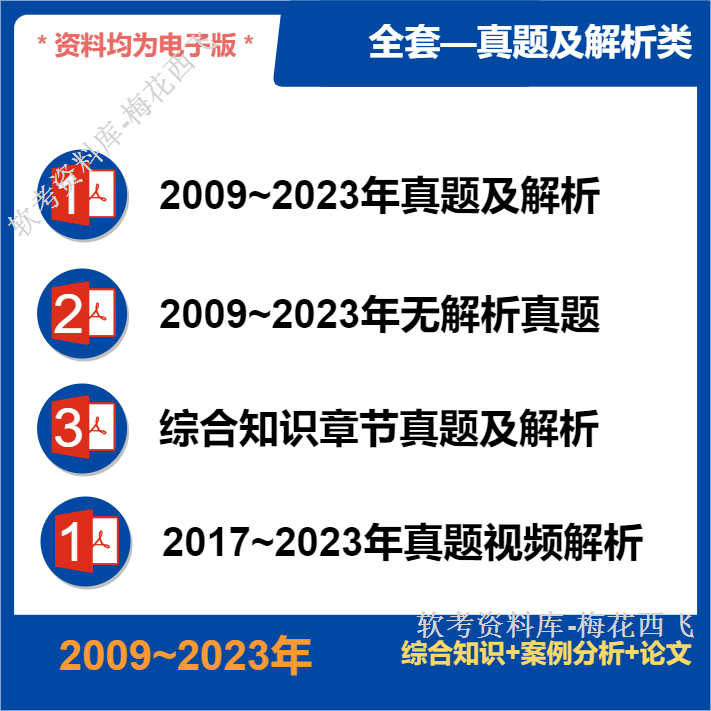
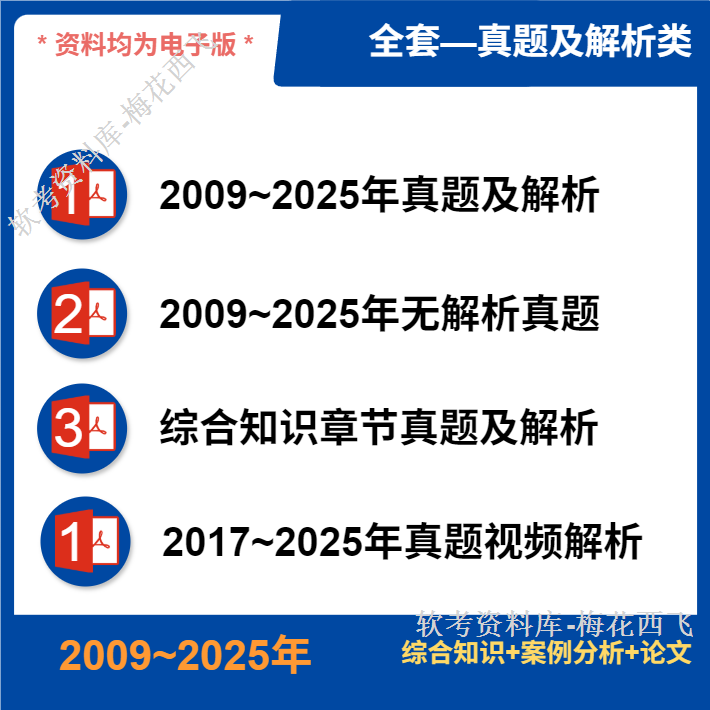
更新25年5月真题及解析 # https://fchxxn.com/exam

diff --git a/README.md b/README.md
@@ -161,12 +161,12 @@
 - **资料简介**
 <div align="center">
   <kbd>
-   <img src="https://fchxxn.com/img/git/%E9%A1%B9%E7%9B%AE%E5%9B%BE%E7%89%87/首页.png?version=2025_6&time=10" title="点击查看大图：首页" width=260 />
-   <img src="https://fchxxn.com/img/git/%E9%A1%B9%E7%9B%AE%E5%9B%BE%E7%89%87/视频.png?version=2024_6&time=10" title="点击查看大图：视频" width=260 />
-   <img src="https://fchxxn.com/img/git/%E9%A1%B9%E7%9B%AE%E5%9B%BE%E7%89%87/真题.png?version=2024_6&time=10" title="点击查看大图：真题" width=260 />
-   <img src="https://fchxxn.com/img/git/%E9%A1%B9%E7%9B%AE%E5%9B%BE%E7%89%87/论文.jpg?version=2024_6&time=1" title="点击查看大图：论文" width=260 />
-   <img src="https://fchxxn.com/img/git/%E9%A1%B9%E7%9B%AE%E5%9B%BE%E7%89%87/教材.jpg?version=2024_6&ui=2" title="点击查看大图：教材" width=260 />
-   <img src="https://fchxxn.com/img/git/%E9%A1%B9%E7%9B%AE%E5%9B%BE%E7%89%87/全套资料.jpg?version=2025_6&ui=2" title="点击查看大图：全套资料" width=260 /> 
+   <img src="https://fchxxn.com/img/git/%E9%A1%B9%E7%9B%AE%E5%9B%BE%E7%89%87/首页.png?version=2025_7&time=10" title="点击查看大图：首页" width=260 />
+   <img src="https://fchxxn.com/img/git/%E9%A1%B9%E7%9B%AE%E5%9B%BE%E7%89%87/视频.png?version=2025_6&time=10" title="点击查看大图：视频" width=260 />
+   <img src="https://fchxxn.com/img/git/%E9%A1%B9%E7%9B%AE%E5%9B%BE%E7%89%87/真题.png?version=2025_6&time=10" title="点击查看大图：真题" width=260 />
+   <img src="https://fchxxn.com/img/git/%E9%A1%B9%E7%9B%AE%E5%9B%BE%E7%89%87/论文.jpg?version=2025_6&time=1" title="点击查看大图：论文" width=260 />
+   <img src="https://fchxxn.com/img/git/%E9%A1%B9%E7%9B%AE%E5%9B%BE%E7%89%87/教材.jpg?version=2025_6&ui=2" title="点击查看大图：教材" width=260 />
+   <img src="https://fchxxn.com/img/git/%E9%A1%B9%E7%9B%AE%E5%9B%BE%E7%89%87/全套资料.jpg?version=2025_7&ui=2" title="点击查看大图：全套资料" width=260 /> 
     </kbd>
    </div>
 
